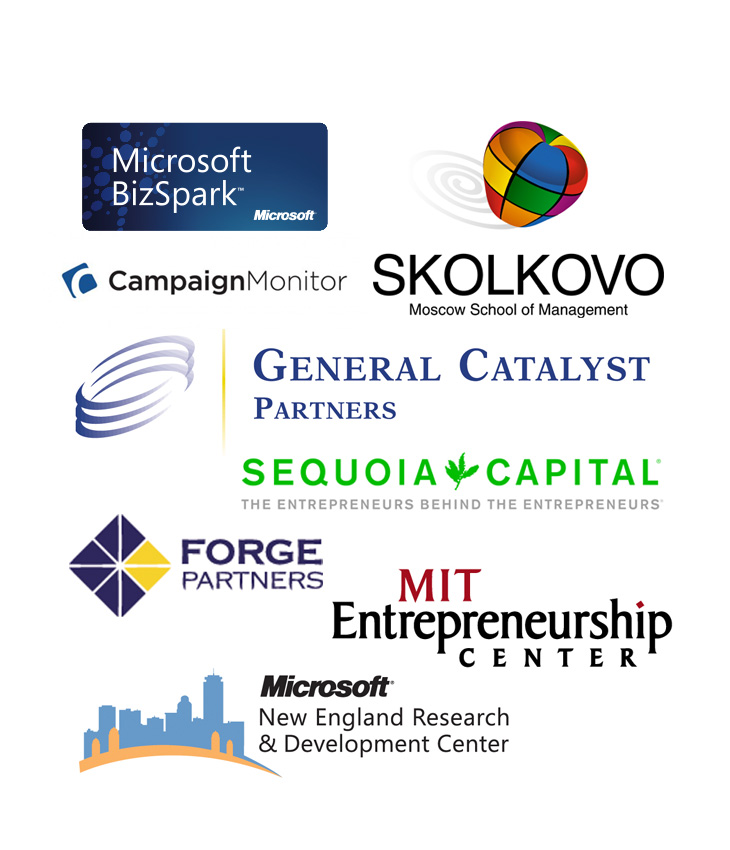
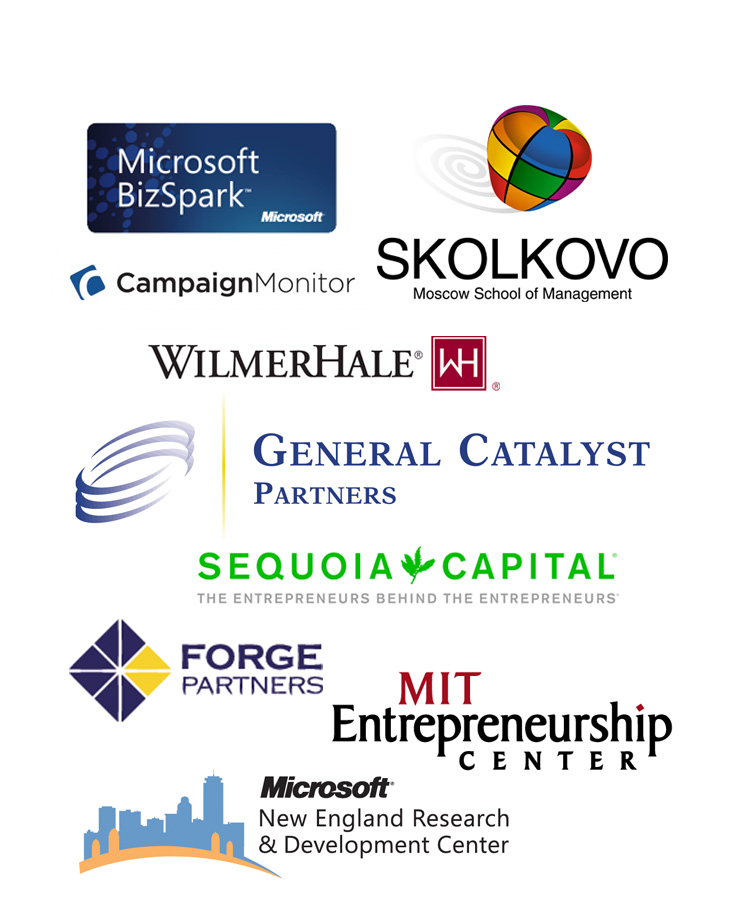
added wilmer hale

Changed region(s): [[0.0904, 0.0918, 0.9342, 0.9788]]

diff --git a/style.css b/style.css
@@ -107,7 +107,7 @@ margin-right: auto;
 margin-left: auto;
 	background: #FFFFFF url('images/sponsordiv.jpg') top no-repeat;
 	width: 730px;
-	height:860px;
+	height:960px;
 }
 
 #speakers {
